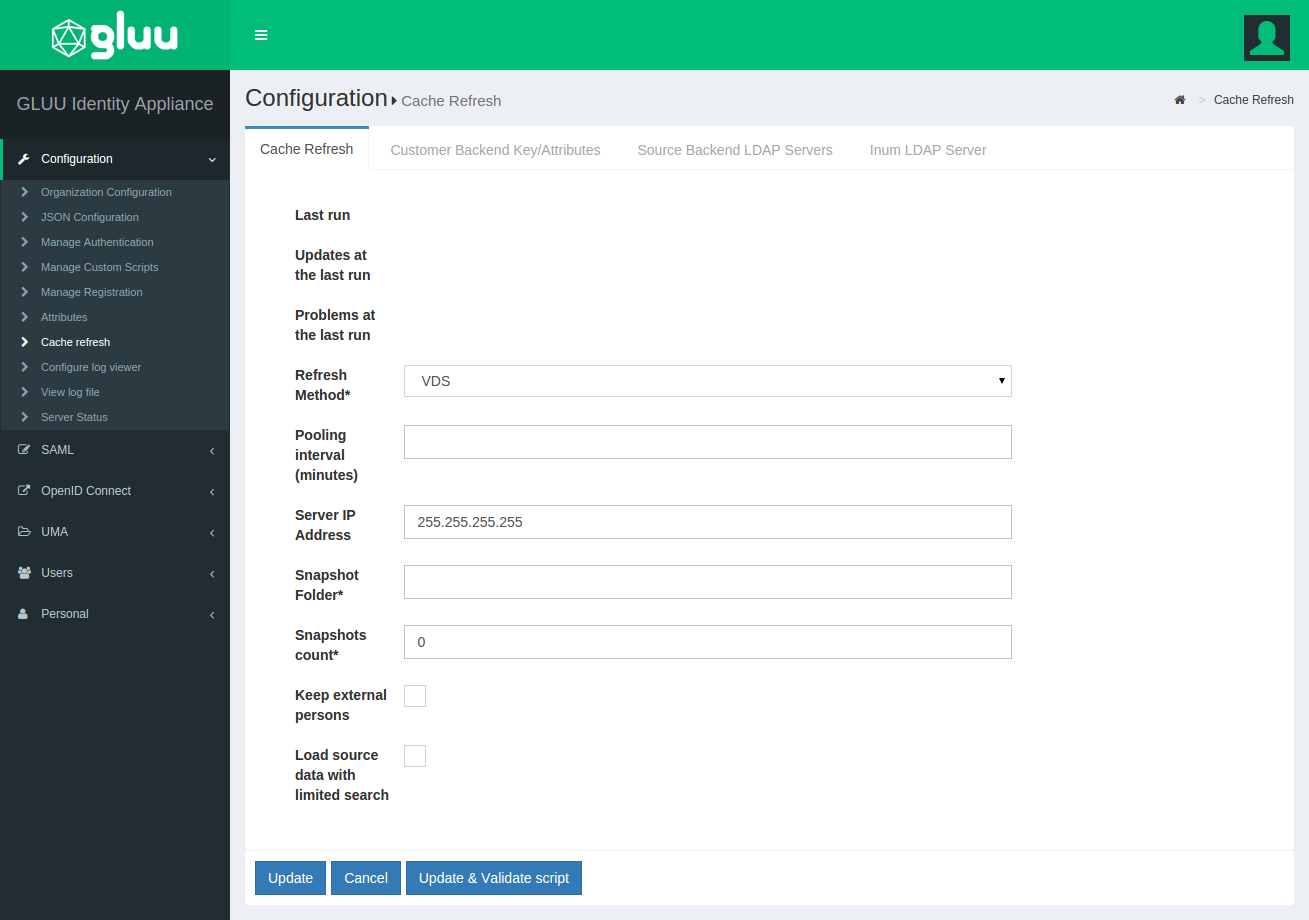
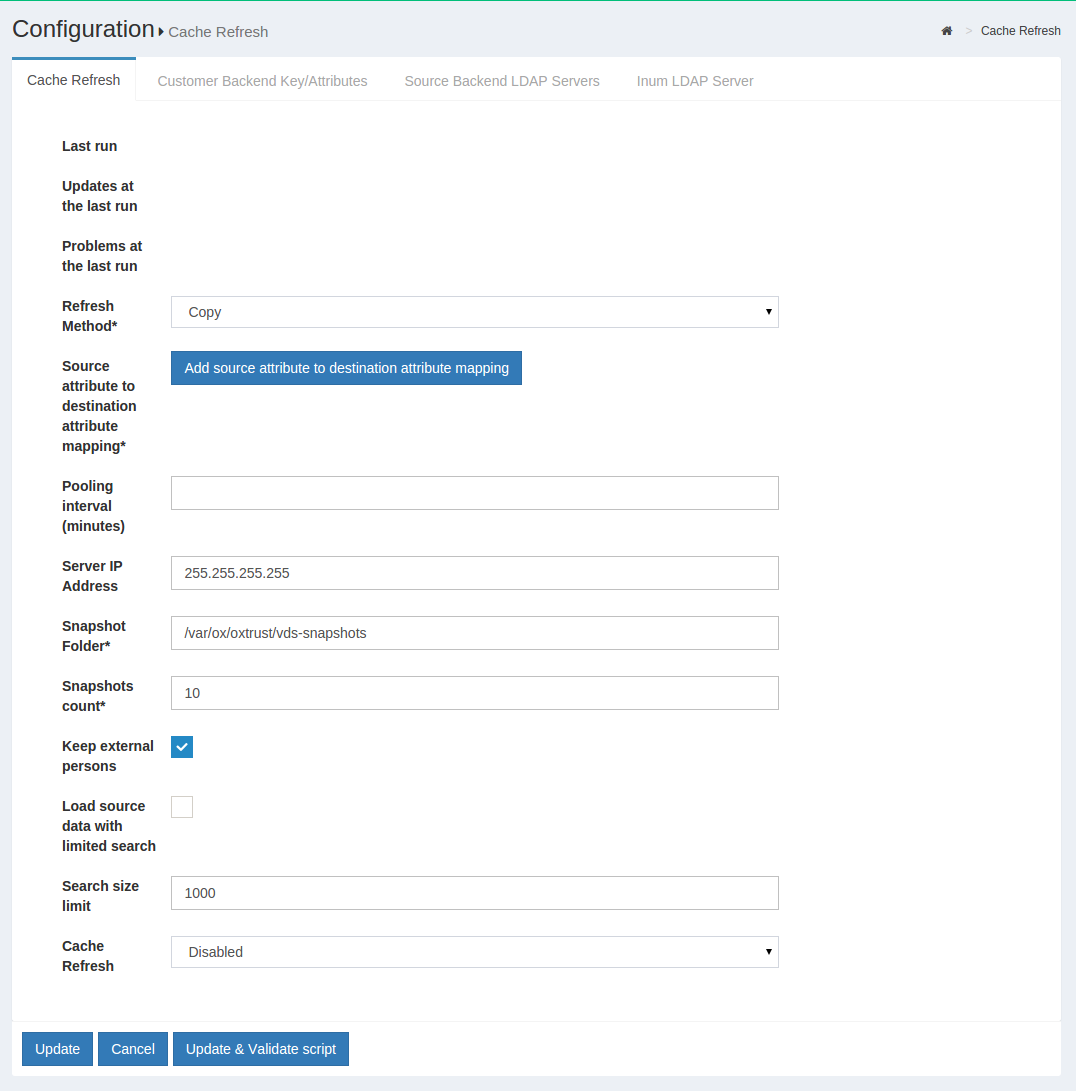
updated cache refresh to reflect new UI

diff --git a/sources/admin-guide/cache-refresh/index.md b/sources/admin-guide/cache-refresh/index.md
@@ -32,16 +32,7 @@ bind password, base DN for search, and object class of person entry.
 Please note that the usage of [LDAPS (LDAP over SSL)][ldap] is strongly
 recommended.
 
-As you can see in the above diagram, 'Cache Refresh Engine' and
-'Authentication Manager' are each connected separately to the backend
-AD/LDAP. Both Engine and Manager need to know how and where to search
-for a user when the user authenticates through the Gluu Server for any
-kind of single sign-on operation. Any failure in these two connections
-will halt the users ability to log into the system.
-
-# Using Cache Refresh
-Cache Refresh **must be enabled** from the [System Configuration](http://www.gluu.org/docs/admin-guide/configuration/#system-configuration) of the [Organization Configuration](http://www.gluu.org/docs/admin-guide/configuration/#organization-configuration) under Configuration menu.
-
+# Things To Remember
 The Gluu Server supports two LDAP modes: (1) authentication and (2)
 identity mapping. Only sometimes it is the same LDAP server. To
 synchronize user accounts from an external LDAP directory server, you
@@ -75,7 +66,7 @@ LDAP:
 * Try to login with one of these users… assuming you've also setup your
 Gluu Server to use the correct LDAP server for authentication.
 
-## Configuring 'Cache Refresh Engine' in Gluu Server
+# Things To Know
 The deployer needs to know various values of his own backend AD to
 configure this part. For example, host & port, bindDN user information,
 bindDN password, Objectclasses, attributes whose information will be
@@ -90,60 +81,7 @@ baseDN respectively.
 After collecting this information, deployer can move forward with the
 setup of the Cache Refresh engine.
 
-## Configuring 'Authentication Manager' in Gluu Server
-This manager knows where to search for users when a request comes in.
-The deployer needs to put his own backend AD's information here which
-will allow the Gluu Server to connect and search for specific users
-based on Username/UID/sAMAccountName.
-
-To describe the picture a bit:
-
-1. backend AD and Cache Refresh Engine are always connected and talking
-to each other to check if any user's information are updated or not.
-
-2. Cache Refresh Engine and Gluu LDAP are always connected. After
-getting information from #1 point, Gluu server updates user's
-information in 'Gluu LDAP'.
-
-3. Authentication Manager is also connected with backend AD and this
-manager has information of backend AD.
-
-Here's a real life scenario:
-
-a. A user is trying to log into Gluu Server.
-
-b. After login, Gluu server takes this user's information and checks
-'Gluu LDAP' to see if this user is available in Gluu Server or not.
-
-c. If the user is present in Gluu Server then the workflow goes to
-'Authentication Manager' as it can check the user's password against
-customer's backend.
-
-After successful completion of b and c, user will be logged into the
-Gluu Server.
-
-What might be the best practice to complete this identity mapping
-successfully?
-
-1. Configure Cache Refresh. Enable 'Keep External Person' during CR
-setup. This enabling will allow your default user 'admin' to log into
-the Gluu Server after initial Cache Refresh iteration. If you do not
-enable 'Keep External Person', your 'admin' user including all other
-test users will be gone after the first Cache Refresh iteration.
-
-2. Test if you were able to successfully import all your users
-information into the Gluu Server or not. After 10-30 minutes, check
-user's information in the Gluu Server. If everything looks good you can
-move forward.
-
-3. Configure Authentication Manager. Provide your backend information
-here. Test LDAP connection. If both look good and work as expected, you
-can 'Update' this setup.
-
-4. Open a new browser and try to log into Gluu Server with your AD
-credentials. If you fail, check the log files for failure information.
-
-## Configuring Cache Refresh From oxTrust
+# Configuring Cache Refresh From oxTrust
 For a successful Cache Refresh setup, you have to insert data in ALL FIELDS below.
 
 ![Cache Refresh Menu](https://raw.githubusercontent.com/GluuFederation/docs/master/sources/img/oxTrust/admin_cache_menu.png)
@@ -172,35 +110,17 @@ For a successful Cache Refresh setup, you have to insert data in ALL FIELDS belo
 
 ![Refresh Copy](https://raw.githubusercontent.com/GluuFederation/docs/master/sources/img/oxTrust/admin_cache_refresh_copy.png)
 
-### Copy Method
-
-![Refresh Copy](https://raw.githubusercontent.com/GluuFederation/docs/master/sources/img/oxTrust/admin_cache_refresh_copy.png)
-
-When the Copy method is selected, a section for Attribute mapping will
-be exposed. In this section, the Gluu Server Administrator can map any
-attribute from the backend Active Directory/LDAP to the LDAP cache of
-the Gluu Server.
-
-In the source attribute to destination attribute mapping field, you can
+* _Source attribute to destination attribute mapping:_ In the source attribute to destination attribute mapping field, you can
 enter the source attribute value on the left, and the destination
 attribute on the right. In other words, you can specify what the
 attribute is on the backend in the left field, and what it should be
 rendered as when it comes through the Gluu Server in the right field.
 
-The Administrator can select any Cache Refresh Method according to the
-backend Active Directory/LDAP server, but there are some essential
-values for both types of cache refresh method. The values are given
-below:
+![cache-refresh8](https://raw.githubusercontent.com/GluuFederation/docs/master/sources/img/oxTrustConfiguration/CR/Cache_Refresh_8.png)
 
   * _Pooling Interval (Minutes):_ This is the interval value for running
   the Cache Refresh mechanism in the Gluu Server. It is recommended to be
   kept higher than 15 minutes.
-
-  * _Script File Name:_ Gluu Server Cache Refresh can accept any kind of
-  Jython Script which might help to calculate any custom/complex
-  attribute, i.e. eduPersonScopedAffiliation calculation is highly
-  targeted field where such scripts can be used. For more information
-  please contact Gluu Support.
 
   * _Snapshot Folder:_ Every cycle of of Gluu Server Cache Refresh cycle
   saves an overall snapshot and problem-list record on a specified
@@ -215,7 +135,7 @@ below:
   are allowed to be saved in the hard drive of the VM. It is recommended
   to be kept to 20 snapshots.
 
-### Customer Backend Key and Attributes
+## Customer Backend Key and Attributes
 ![Customer Backend Key](https://raw.githubusercontent.com/GluuFederation/docs/master/sources/img/oxTrust/admin_cache_backend.png)
 
 * _Key Attribute:_ This is the unique key attribute of backend Active Directory/LDAP Server such as SAMAccountname for any Active Directory.
@@ -231,7 +151,7 @@ below:
 filtering mechanism can be used such as `sn=*` where the value of this
 field ensures that every user must contain an attribute named SN.
 
-### Source Backend LDAP Servers
+## Source Backend LDAP Servers
 
 ![Source Backend](https://raw.githubusercontent.com/GluuFederation/docs/master/sources/img/oxTrust/admin_cache_sourcebackend.png)
 
@@ -271,7 +191,7 @@ If any organization has multiple Active Directory/LDAP server, click on
 **Add source LDAP server** and add the additional server information.
 Please remember that a *failover server* is not a new server.
 
-### Inum LDAP Server
+## Inum LDAP Server
 
 ![Inum LDAP Server](https://raw.githubusercontent.com/GluuFederation/docs/master/sources/img/oxTrust/admin_cache_inum.png)
 
